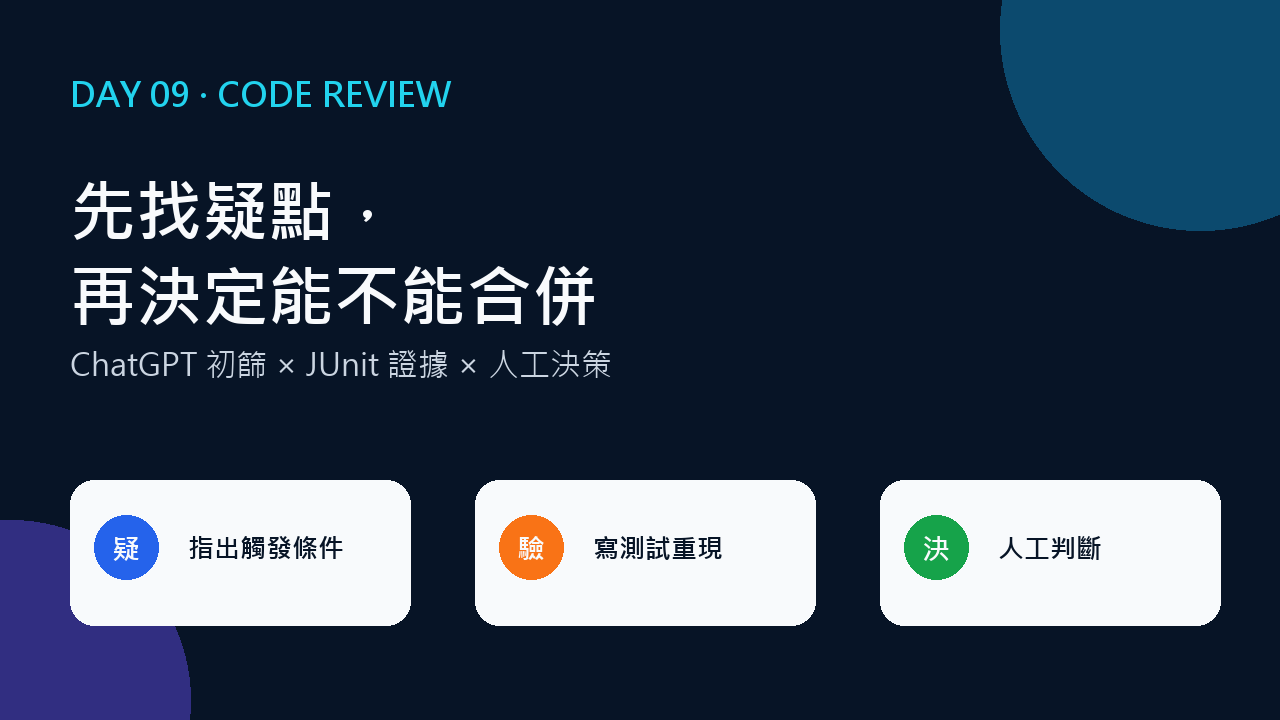
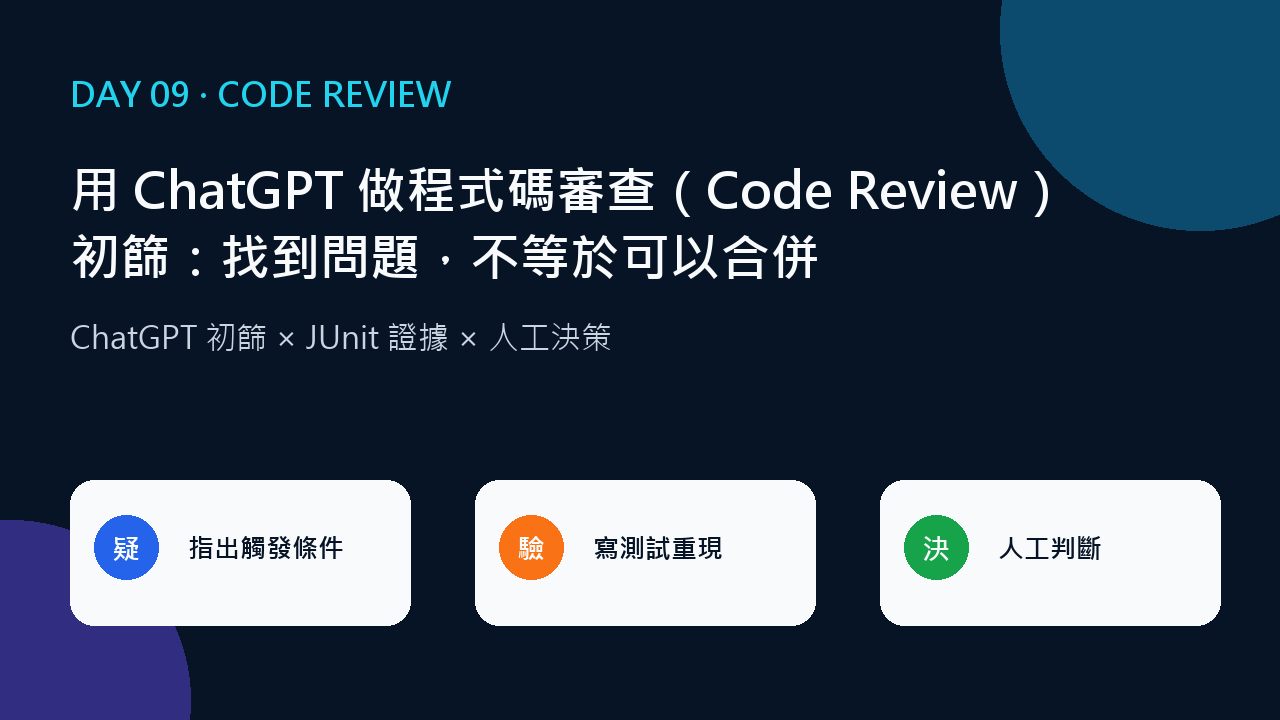
Day09 image

Changed region(s): [[0.0625, 0.2139, 0.8438, 0.5194]]

diff --git a/圖檔/Day09/generate_day09_images.py b/圖檔/Day09/generate_day09_images.py
@@ -49,9 +49,9 @@ def cover():
     draw.ellipse((1000, -170, 1400, 230), fill="#0C4A6E")
     draw.ellipse((-170, 520, 190, 880), fill="#312E81")
     text(draw, (70, 70), "DAY 09 · CODE REVIEW", 34, CYAN, True)
-    text(draw, (70, 165), "先找疑點，", 66, WHITE, True)
-    text(draw, (70, 250), "再決定能不能合併", 66, WHITE, True)
-    text(draw, (70, 342), "ChatGPT 初篩 × JUnit 證據 × 人工決策", 31, "#CBD5E1")
+    text(draw, (70, 155), "用 ChatGPT 做程式碼審查（Code Review）", 50, WHITE, True)
+    text(draw, (70, 222), "初篩：找到問題，不等於可以合併", 50, WHITE, True)
+    text(draw, (70, 315), "ChatGPT 初篩 × JUnit 證據 × 人工決策", 31, "#CBD5E1")
 
     cards = [("疑", "指出觸發條件", BLUE), ("驗", "寫測試重現", ORANGE), ("決", "人工判斷", GREEN)]
     x = 70

diff --git a/審核/DAY09-verify.md b/審核/DAY09-verify.md
@@ -20,6 +20,13 @@
 | 事實正確性 | 第二個 `Set.add` 的回傳值敘述不精確；正文把 `VERIFY` 待查項目稱為誤報 | 明寫 A 的 `add` 回傳 `true`、B 的 `add` 回傳 `false`，但兩個 `tryStart` 都回傳 `true`；全文統一為「待查後排除」 | 通過，無剩餘阻擋 |
 | 讀者清晰度與規範 | `newKeySet` 分類與補作回覆矛盾；API 首次出現未展開全名 | 同步正文、附件、筆記與第五張圖；補上應用程式介面（Application Programming Interface，API）全名 | 通過，無剩餘硬傷 |
 
+### 2026-08-22 封面標題同步複審
+
+- [x] 著作權合規：通過。封面只使用本篇標題、原創摘要與幾何圖形，沒有外部圖片、Logo、嵌入字型或第三方素材。
+- [x] 事實正確性：通過。正文主標、Markdown 圖片替代文字，以及產圖腳本內兩行標題逐字一致。
+- [x] 讀者清晰度與規範：通過。完整標題分成兩行後沒有截切、碰撞或遮擋，仍保留清楚的主標、副標與卡片層級。
+- [x] 可重現性：`day09-01-cover.png` 為 1280×720；只執行 `cover()` 重生圖片後雜湊值不變。
+
 ## 著作權與引用檢查
 
 - 本篇未使用 ISO／CNS、法律條文或 CC 授權素材，不需讀取或比對 `條文/` 正本。
@@ -31,7 +38,7 @@
 ## 事實與程式核對
 
 - OpenAI 官方目前將對話探索與 Codex 的程式碼庫理解、測試及審查工作分開描述；正文只做概括轉述。
-- `ConcurrentHashMap.newKeySet()` 產生由 `ConcurrentHashMap` 支援的集合；把容器本身標成不安全是模擬誤報。
+- `ConcurrentHashMap.newKeySet()` 產生由 `ConcurrentHashMap` 支援的集合；補作回覆將並行保證列為 `VERIFY` 待查，之後由 Java 17 API 文件排除疑點。
 - `contains` 與 `add` 分成兩次呼叫時，兩個執行緒可能都先看到鍵不存在；修正版直接使用該集合單次 `add` 的回傳值判斷。
 - 缺陷版對 null 呼叫 `isBlank()`，實際會先拋出 `NullPointerException`。
 - `tryStart` 與 `finish` 共用 `normalize` 後，前後空白與英文字母大小寫的識別規則一致。
@@ -65,6 +72,7 @@ mvn clean test
 - 標題首次使用「程式碼審查（Code Review）」；API、JDK 也在首次出現時提供中英文全名。
 - 標題層級為一個 `#` 主標題，後續使用 `##`，沒有跳級。
 - 五張圖片皆為 1280 × 720 px、16:9；文章使用 `raw.githubusercontent.com` 網址，且每張圖片獨立成行。
+- 第一張封面的兩行主標串接後，與文章標題「用 ChatGPT 做程式碼審查（Code Review）初篩：找到問題，不等於可以合併」逐字一致。
 - 第三張圖的程式行號 13、16、17、20、25 與 `review-input.diff` 一致，第 16 行完整呈現 `toLowerCase(Locale.ROOT)`。
 - 正文、補作稿、比較表、`review-notes.md` 與第五張圖均標明模擬性質，不冒充作者遺失的 ChatGPT 原始對話紀錄。
 - Day 08 的時區計算已有測試，本篇明確把審查範圍移到排程外新增的匯入閘門；小結再銜接 Day 10 的 Codex 代理任務。

diff --git a/DAY09-用ChatGPT做CodeReview初篩.md b/DAY09-用ChatGPT做CodeReview初篩.md
@@ -1,6 +1,6 @@
 # Day 09｜用 ChatGPT 做程式碼審查（Code Review）初篩：找到問題，不等於可以合併
 
-![Day 09 封面：先找疑點，再決定能不能合併](https://raw.githubusercontent.com/a26703248/ithome-2026-codex/main/%E5%9C%96%E6%AA%94/Day09/day09-01-cover.png)
+![Day 09 封面：用 ChatGPT 做程式碼審查（Code Review）初篩：找到問題，不等於可以合併](https://raw.githubusercontent.com/a26703248/ithome-2026-codex/main/%E5%9C%96%E6%AA%94/Day09/day09-01-cover.png)
 
 Day 08 已用測試保護「每天九點」的時區計算。這次我往排程外移一層，審查新增的匯入閘門。我讀這小段 Java 程式差異（diff）時，視線先停在 `strip` 與 `toLowerCase`；把集合操作排成時序後，才發現互斥判斷被拆成兩步。ChatGPT 可以擴大搜尋面，回覆仍不是合併依據。
 
@@ -30,7 +30,7 @@ runningWorkspaces.add(key);
 return true;
 ```
 
-原始對話未保存，我依提示詞與 diff 建立[完整對話紀錄](https://raw.githubusercontent.com/a26703248/ithome-2026-codex/main/%E7%A8%8B%E5%BC%8F%E7%A2%BC/DAY09/chatgpt-review-record.md)，而非逐字復原。回覆列出 null 的 `NullPointerException` 與 `contains`／`add` 競爭條件；我再追問測試名稱、斷言與假陰性風險。兩項標為 `BLOCK`，在 JUnit 5 重現前仍待驗證。
+[完整對話紀錄](https://raw.githubusercontent.com/a26703248/ithome-2026-codex/main/%E7%A8%8B%E5%BC%8F%E7%A2%BC/DAY09/chatgpt-review-record.md)。回覆列出 null 的 `NullPointerException` 與 `contains`／`add` 競爭條件；我再追問測試名稱、斷言與假陰性風險。兩項標為 `BLOCK`，在 JUnit 5 重現前仍待驗證。
 
 ![去識別化 Java diff 的三個失敗條件](https://raw.githubusercontent.com/a26703248/ithome-2026-codex/main/%E5%9C%96%E6%AA%94/Day09/day09-03-diff-findings.png)
 
